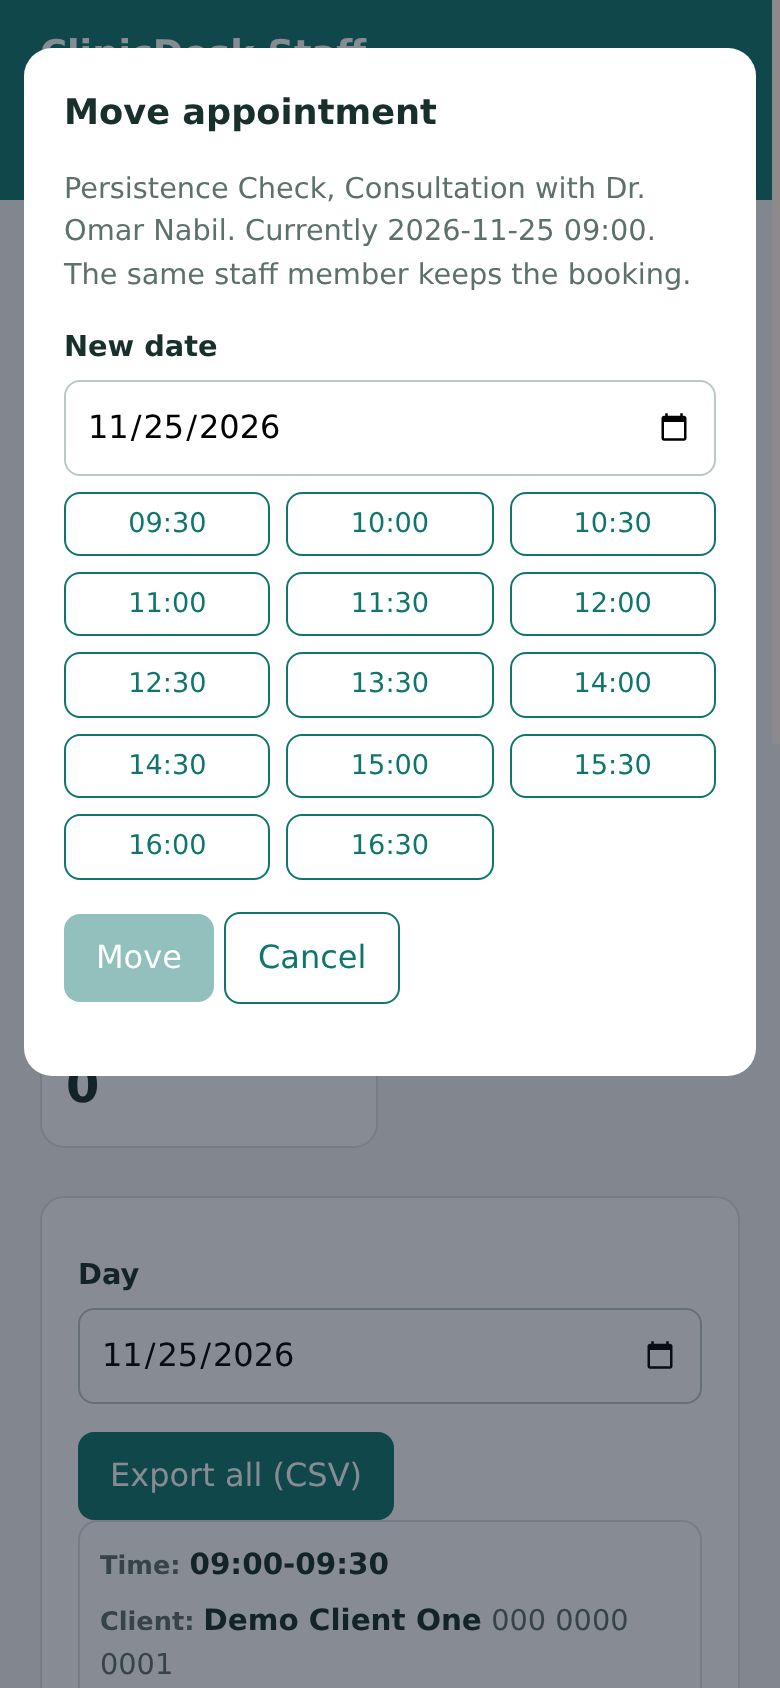
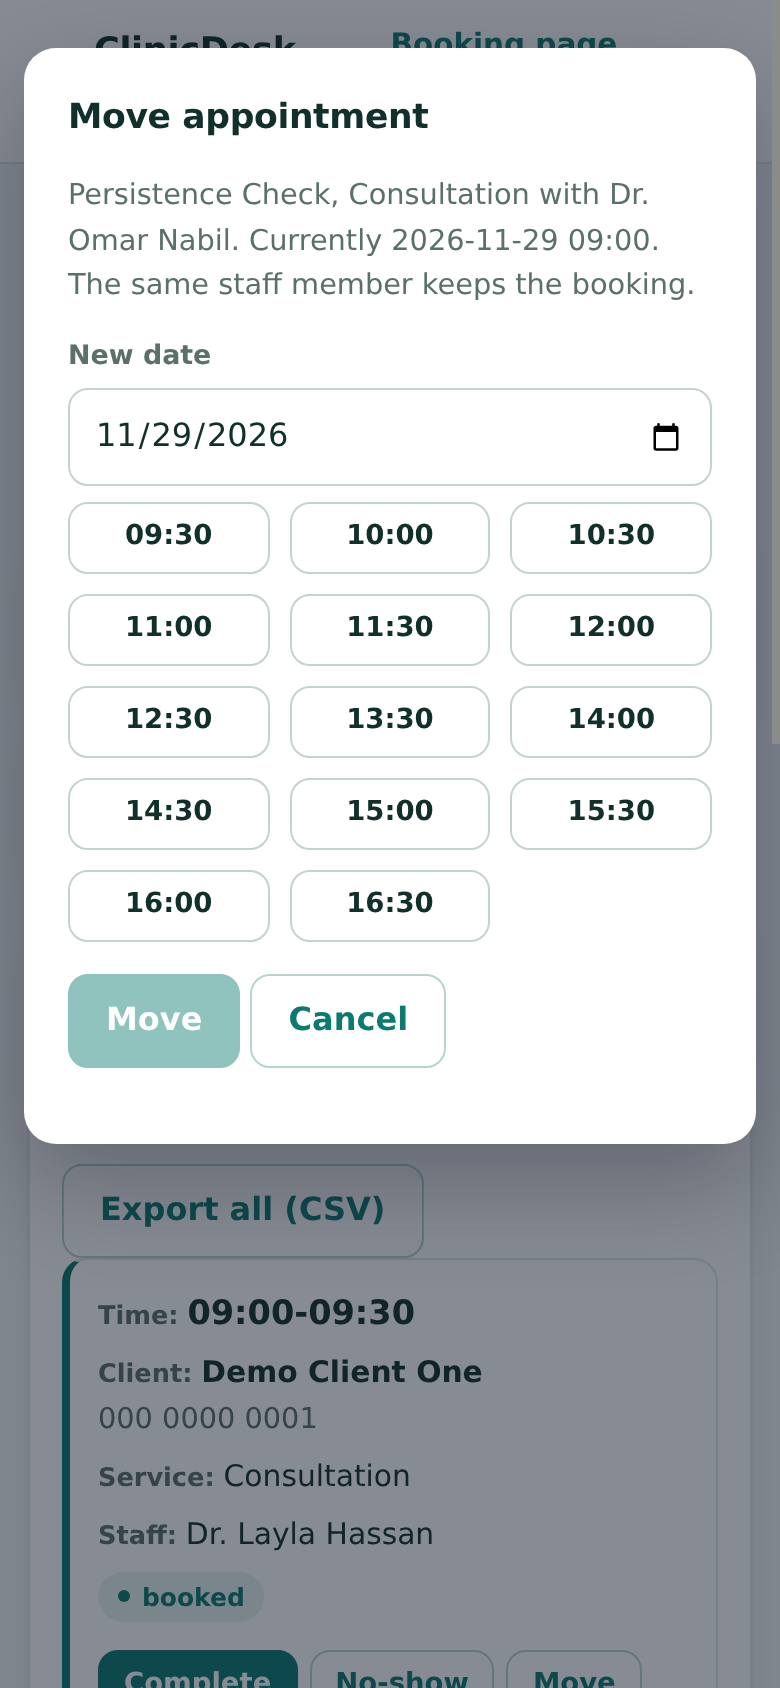
Refresh docs screenshots for the redesigned UI; add role e2e and role screenshots

diff --git a/docs/e2e-roles.js b/docs/e2e-roles.js
@@ -1,0 +1,31 @@
+// Role-aware admin UI check in a real Chrome: owner vs reception, same day, same data (fictional demo bookings only).
+const { launch } = require('./cdp.js'); const { spawn } = require('node:child_process'); const fs = require('node:fs'), os = require('node:os'), path = require('node:path'), crypto = require('node:crypto');
+const assert = require('node:assert');
+const { open, createUser } = require('../db'); const { seedDefaults, seedDemoBookings } = require('../seed');
+const dbf = path.join(fs.mkdtempSync(path.join(os.tmpdir(), 'cderoles-')), 'clinic.db'); const PORT = 3458, U = `http://127.0.0.1:${PORT}`;
+const PW = crypto.randomBytes(9).toString('base64url'); const sleep = ms => new Promise(r => setTimeout(r, ms));
+(async () => {
+  const db = open(dbf); seedDefaults(db); seedDemoBookings(db); createUser(db, 'owner1', PW, 'owner'); createUser(db, 'front1', PW, 'reception'); db.close();
+  const srv = spawn('node', ['--no-warnings', 'server.js'], { env: { ...process.env, DB: dbf, PORT, CLINIC_TZ: 'Africa/Cairo' }, cwd: path.join(__dirname, '..') });
+  await sleep(1500);
+  for (const [user, role] of [['front1', 'reception'], ['owner1', 'owner']]) {
+    const D = await launch(1100, 800, false);
+    await D.goto(U + '/admin'); await D.type('#u', user); await D.type('#p', PW); await D.click('#lf button'); for (let i = 0; i < 30 && !(await D.ev(`document.getElementById('d').value`)); i++) await sleep(200);
+    // step through the next days until the schedule shows demo bookings
+    for (let k = 1; k <= 7; k++) {
+      await D.ev(`(()=>{const e=document.getElementById('d');const d=new Date(e.dataset.base||e.value);e.dataset.base=e.dataset.base||e.value;const b=new Date(e.dataset.base+'T00:00:00Z');b.setUTCDate(b.getUTCDate()+${k});e.value=b.toISOString().slice(0,10);e.dispatchEvent(new Event('change',{bubbles:true}))})()`); await sleep(700);
+      if (await D.ev(`document.querySelectorAll('#rows tr').length`) > 0) break;
+    }
+    const rows = await D.ev(`document.querySelectorAll('#rows tr').length`);
+    const tabs = await D.ev(`[...document.querySelectorAll('.tabs button')].filter(b=>!b.hidden).map(b=>b.textContent).join('|')`);
+    const stats = await D.ev(`document.getElementById('stats').textContent.length>0`);
+    const err = await D.ev(`document.getElementById('amsg').hidden?'':document.getElementById('amsg').textContent`);
+    const who = await D.ev(`document.getElementById('who').textContent`);
+    console.log(role, { who, rows, tabs, statsVisible: stats, err });
+    console.log(await D.ev('document.getElementById("rows").textContent.slice(0,200)')); assert.ok(rows > 0, role + ': schedule rows visible'); assert.strictEqual(err, '', role + ': no error banner');
+    if (role === 'reception') { assert.strictEqual(tabs, 'Schedule|Next 7 days|Clients'); assert.strictEqual(stats, false); }
+    else { assert.match(tabs, /Services\|Staff and hours/); assert.strictEqual(stats, true); }
+    await D.shot(`docs/roles-${role}-schedule.png`, false); D.close();
+  }
+  srv.kill(); console.log('ROLES E2E PASS'); process.exit(0);
+})().catch(e => { console.error('ROLES E2E FAIL', e); process.exit(1); });
